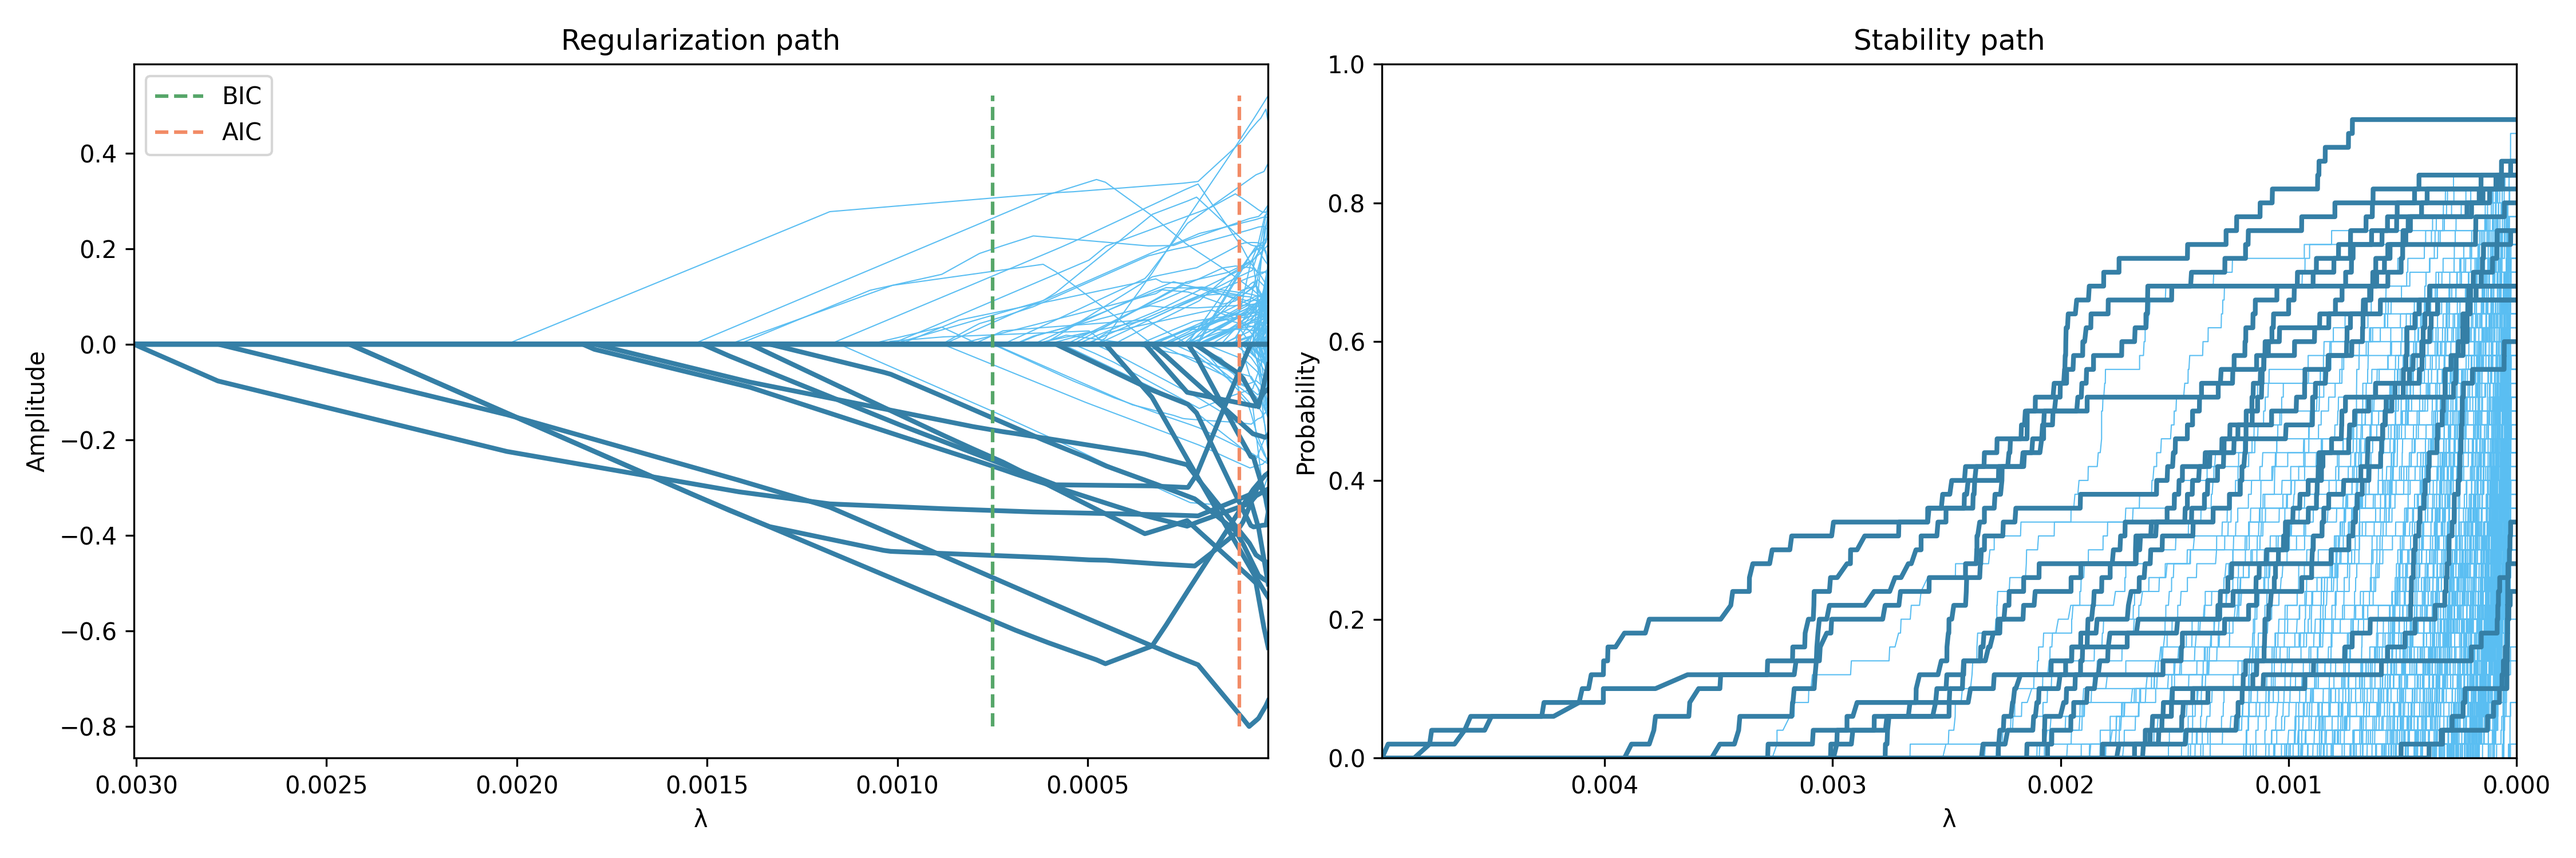
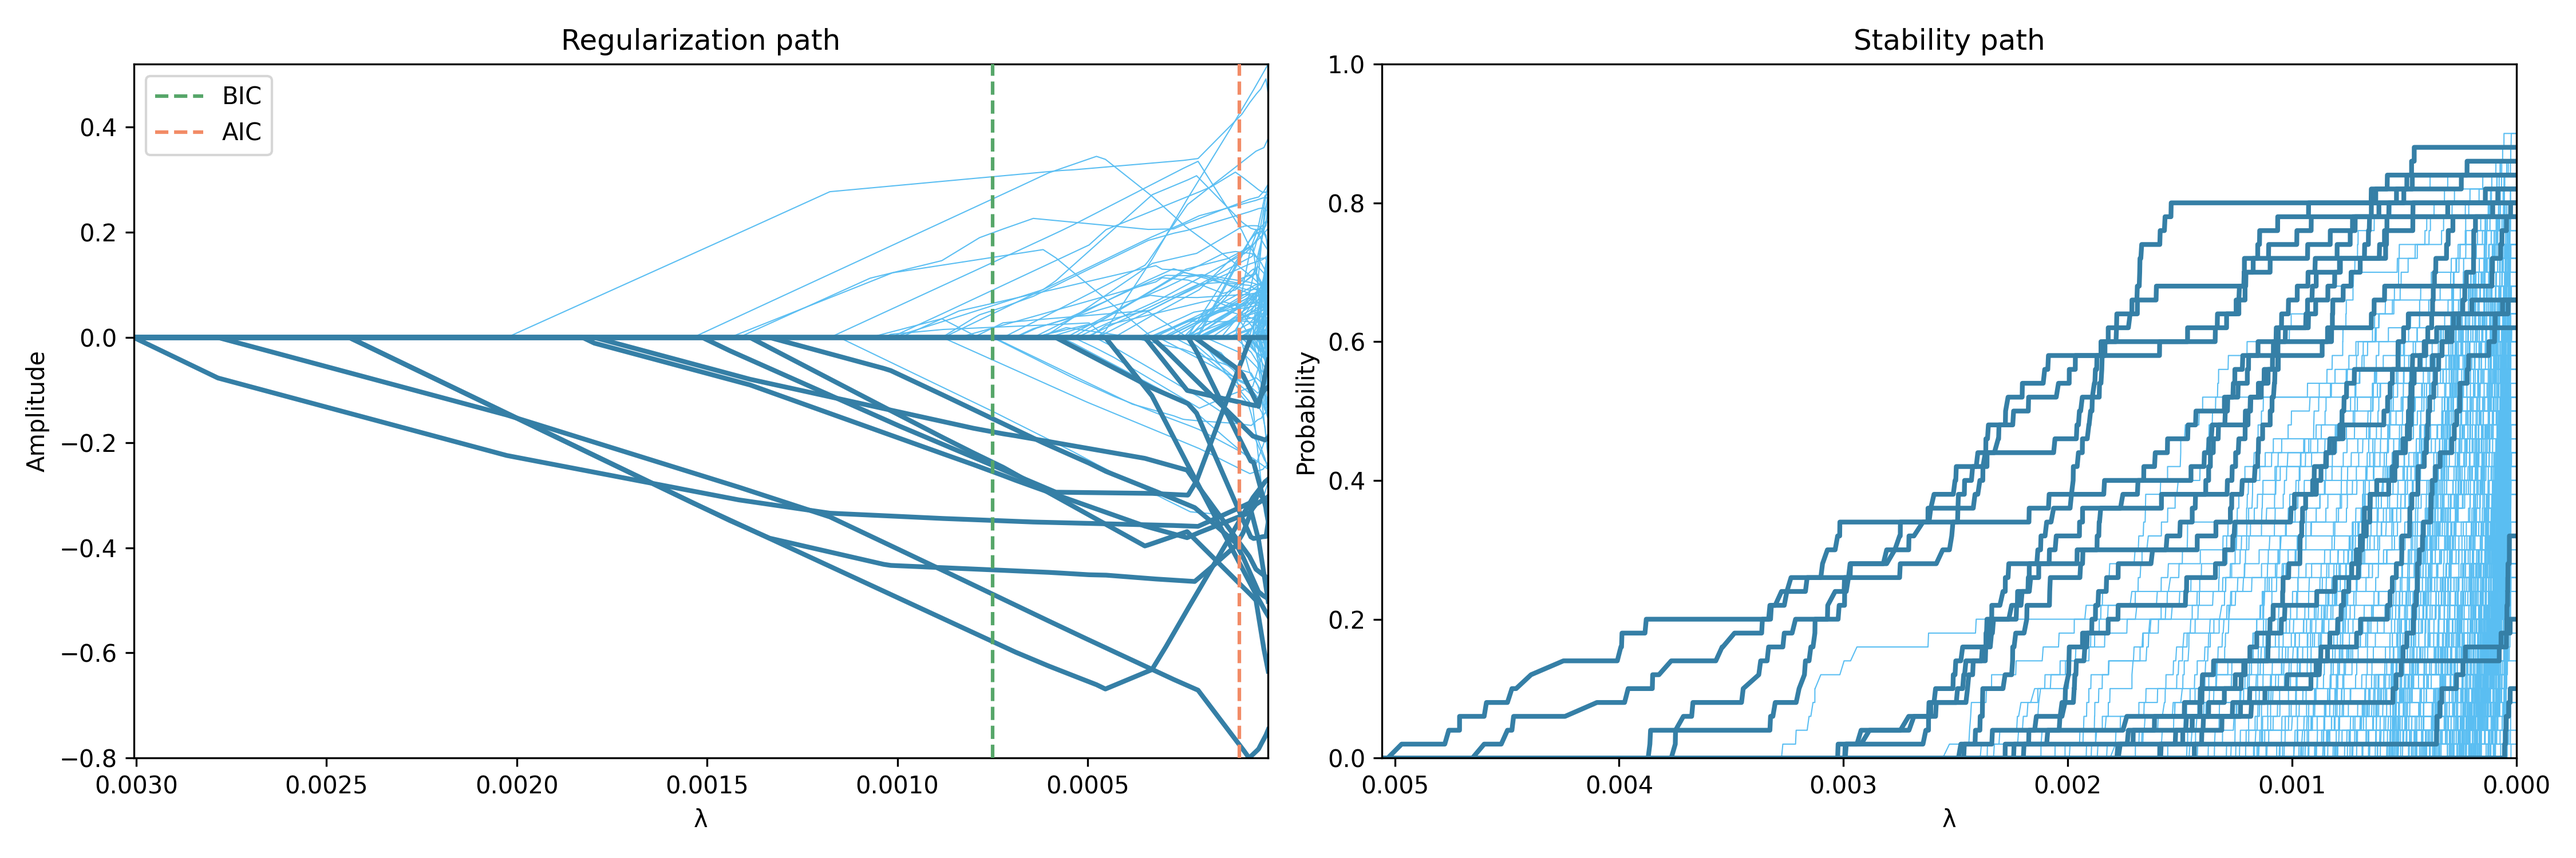
Removed top and bottom margins for regularization path

diff --git a/plot_reg_stab_paths.py b/plot_reg_stab_paths.py
@@ -175,7 +175,7 @@ def main(trial):
     # Plot regularization path on the left subplot of 2
     print("Plotting regularization path...")
     fig, ax = plt.subplots(1, 2, figsize=(15, 5))
-    ax[0].margins(x=0)
+    ax[0].margins(x=0, y=0)
     ax[0].plot(lambdas, coef_path[non_onset, :].T, color="#5ABEF2", linewidth=0.5)
     ax[0].plot(lambdas, coef_path[onsets, :].T, color="#357FA6", linewidth=2)
     # Add vertical lines at the optimal lambdas for each selection criteria (BIC, AIC) and position them on top of the plot
